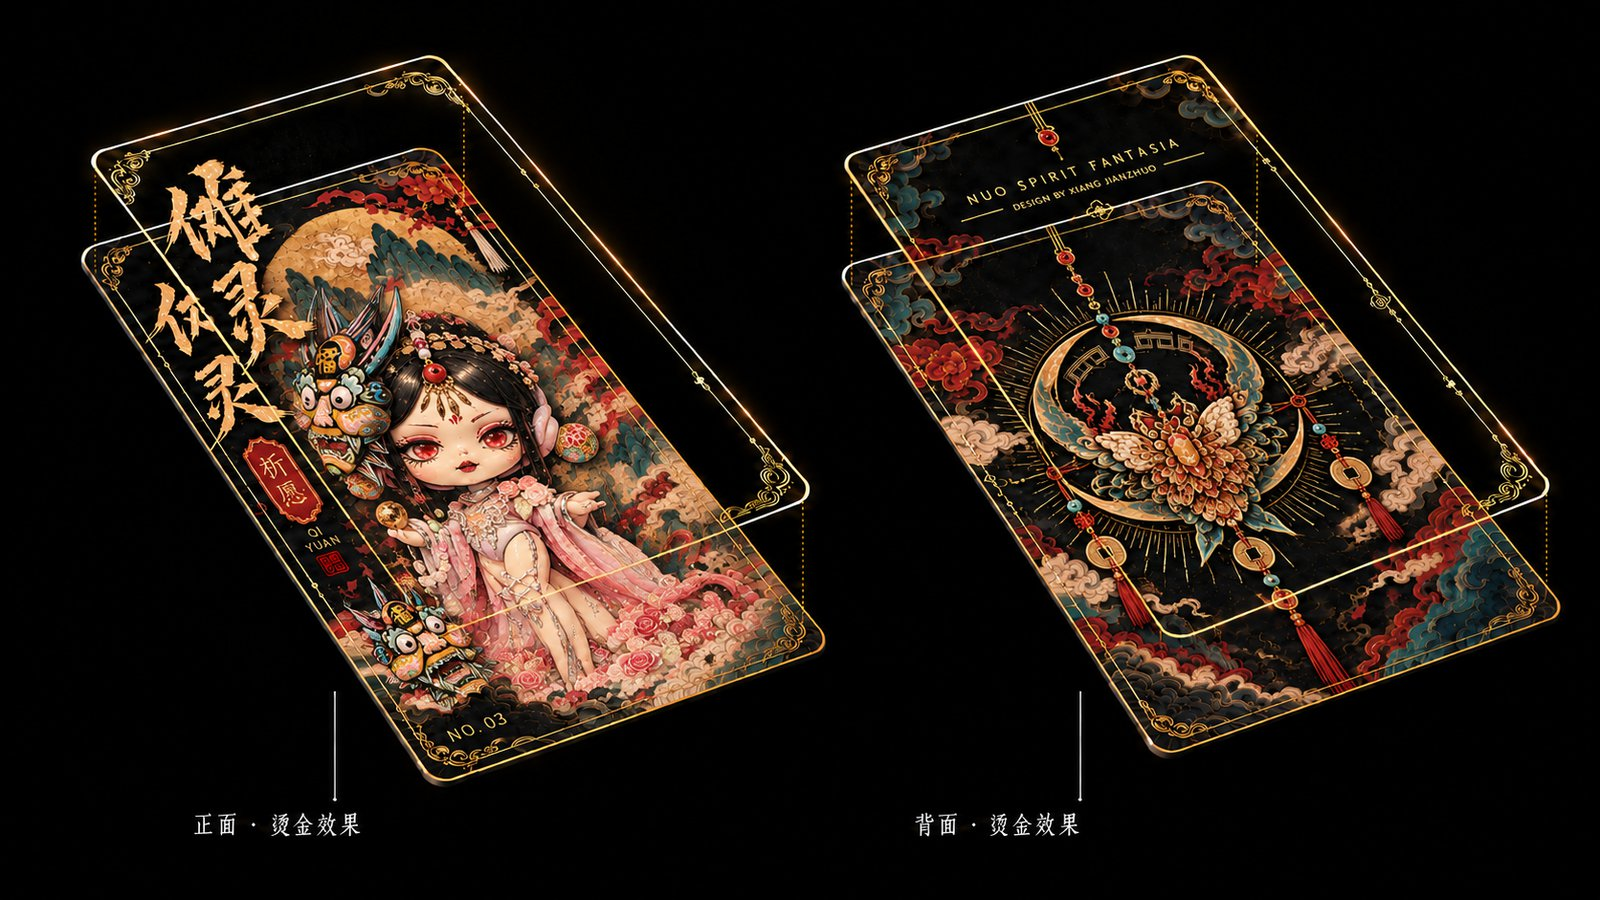
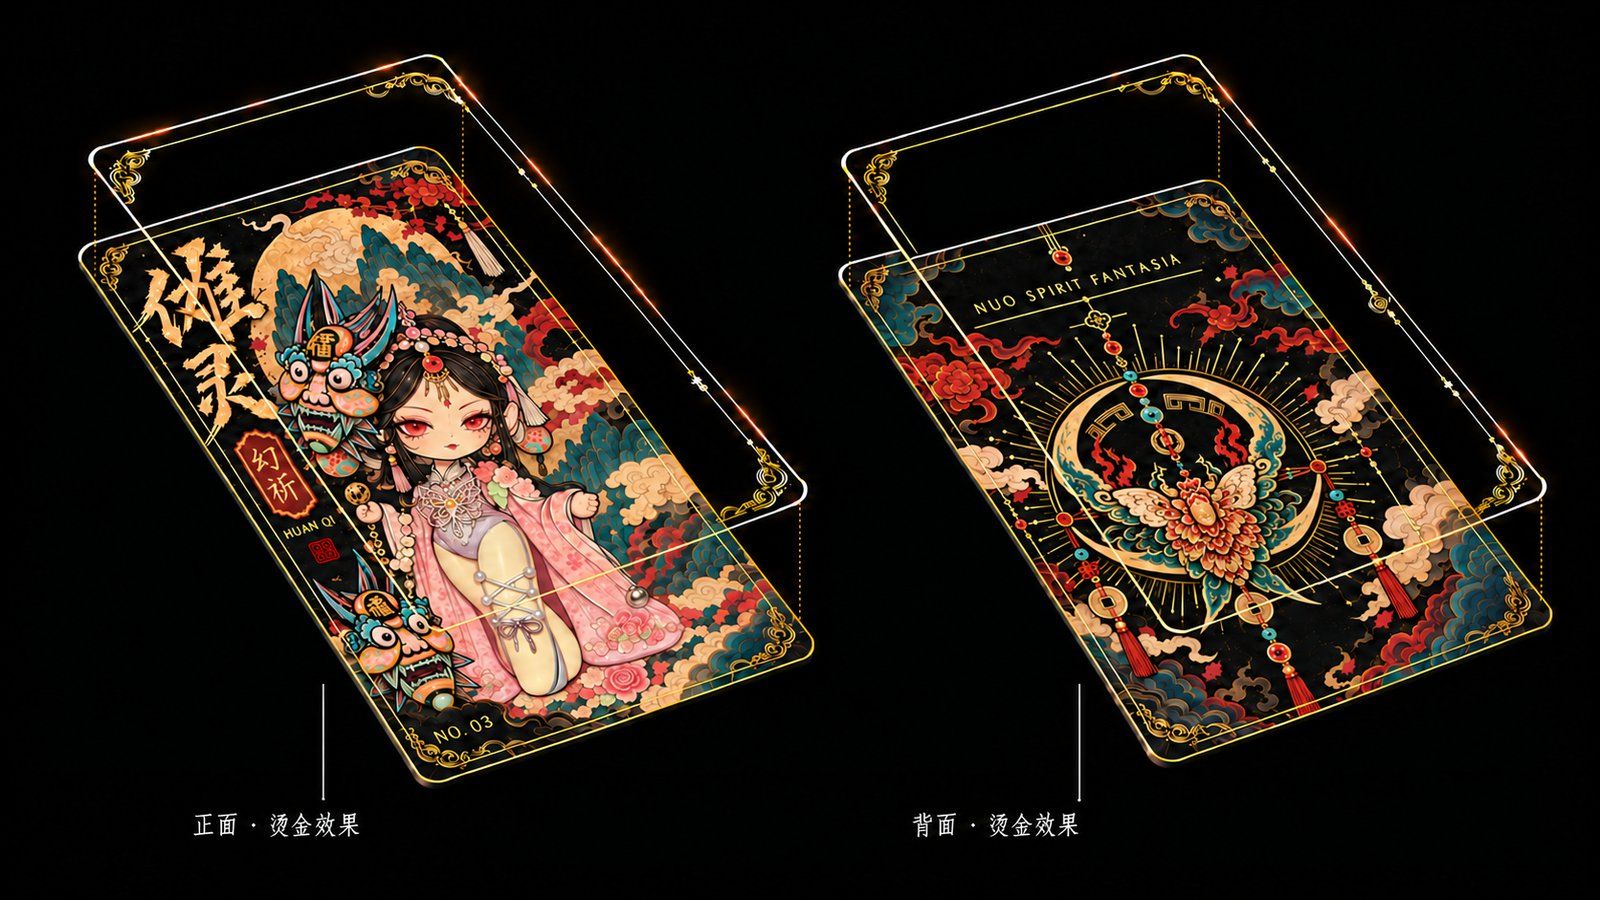
第三个手办改名「幻祈」+ 方向确认科幻金属幻想；接入造型转化图；NO.02/03 卡面换改版
- 用户在 造型转化 里明确第三方向 = 科幻金属幻想，卡面角色名由「祈愿」改为「幻祈」
  （卡面自己标着「名称待定」，若回退改名只需改 4 处文案）
- 新增 09 节首块「概念提取与转化」（整幅），三节现在都是「理念 → 草图 → 卡面」同构
- 04 节 direction-3 caption 与 02 节 NO.03 档案（角色/方向/配件）同步
- NO.02 卡面两图与 NO.03 卡面两图换改版，版本号进位 20260918d

diff --git a/nuoling.html b/nuoling.html
@@ -112,7 +112,7 @@
     </div>
     <div class="profile" data-reveal style="margin-top:56px">
       <figure>
-        <img src="assets/nuoling/nuo2-card-foil.jpg?v=20260918b" alt="传统傩面 身份卡 NO.02 烫金效果" loading="lazy">
+        <img src="assets/nuoling/nuo2-card-foil.jpg?v=20260918d" alt="传统傩面 身份卡 NO.02 烫金效果" loading="lazy">
       </figure>
       <dl>
         <div><dt>编号</dt><dd>NO.02</dd></div>
@@ -127,16 +127,16 @@
     </div>
     <div class="profile" data-reveal style="margin-top:56px">
       <figure>
-        <img src="assets/nuoling/qi3-card-foil.jpg?v=20260918" alt="祈愿 身份卡 NO.03 烫金效果" loading="lazy">
+        <img src="assets/nuoling/qi3-card-foil.jpg?v=20260918d" alt="幻祈 身份卡 NO.03 烫金效果" loading="lazy">
       </figure>
       <dl>
         <div><dt>编号</dt><dd>NO.03</dd></div>
-        <div><dt>角色</dt><dd>祈愿 · QI YUAN</dd></div>
+        <div><dt>角色</dt><dd>幻祈 · HUAN QI</dd></div>
         <div><dt>系列</dt><dd>傩灵异想 · NUO SPIRIT FANTASIA</dd></div>
-        <div><dt>设计方向</dt><dd>玫瑰 / 月牙意象（第三方向）</dd></div>
+        <div><dt>设计方向</dt><dd>科幻金属幻想（第三方向）</dd></div>
         <div><dt>材质</dt><dd class="todo">待补</dd></div>
         <div><dt>尺寸</dt><dd class="todo">待补</dd></div>
-        <div><dt>配件</dt><dd>面具可拆装 · 珠链 / 流苏 / 玫瑰底座</dd></div>
+        <div><dt>配件</dt><dd>面具可拆装 · 银色镂空胸饰 / 花卉与珠链 / 流苏</dd></div>
         <div><dt>卡面工艺</dt><dd>烫金 · 编号身份卡</dd></div>
       </dl>
     </div>
@@ -191,8 +191,8 @@
         <figcaption class="g-cap">02 传统傩面幻想 · 女性角色造型 × 传统傩面</figcaption>
       </figure>
       <figure class="g-item">
-        <img src="assets/nuoling/direction-3.jpg?v=20260918" alt="祈愿 角色设计草图 三视图" loading="lazy">
-        <figcaption class="g-cap">03 祈愿 · 玫瑰 / 月牙意象 × 傩面徽记</figcaption>
+        <img src="assets/nuoling/direction-3.jpg?v=20260918" alt="幻祈 角色设计草图 三视图" loading="lazy">
+        <figcaption class="g-cap">03 幻祈 · 科幻金属幻想 × 傩面形制转译</figcaption>
       </figure>
     </div>
     <div class="gallery gallery-wide" style="margin-top:16px" data-reveal>
@@ -327,7 +327,7 @@
     </div>
   </div>
   <div class="bleed" data-reveal style="margin-top:8vh">
-    <img src="assets/nuoling/nuo2-card.jpg?v=20260918b" alt="传统傩面 身份卡 NO.02 正面与背面" loading="lazy">
+    <img src="assets/nuoling/nuo2-card.jpg?v=20260918d" alt="传统傩面 身份卡 NO.02 正面与背面" loading="lazy">
   </div>
   <div class="bleed-cap">传统傩面 · 身份卡 NO.02 —— 正面（“傩灵”题字 / “顺遂”印）· 背面（傩面徽记 / NUO SPIRIT FANTASIA）</div>
   <div class="bleed" data-reveal style="margin-top:56px">
@@ -340,17 +340,23 @@
   <div class="bleed-cap">面具佩戴 —— 成品与包装 · 身份卡 NO.02 —— 包装盒（傩灵 / 傩面）· 涂装完成的手办 · 身份卡正反面（包装展示概念效果）</div>
 </section>
 
-<!-- ===================== 09 祈愿 · 从草图到卡面 ===================== -->
+<!-- ===================== 09 幻祈 · 从理念到卡面 ===================== -->
 <section class="dsec">
   <div class="container">
     <div class="dsec-head" data-reveal>
       <span class="k">09</span>
-      <h3>祈愿 · 从草图到卡面</h3>
-      <span class="k-en">Figure 03 · Sketch to Card</span>
+      <h3>幻祈 · 从理念到卡面</h3>
+      <span class="k-en">Figure 03 · Concept to Card</span>
     </div>
     <div class="dbody" data-reveal>
       <p><b>第三个手办</b>——延续同一套卡片形制与人物比例，换一组视觉母题：
-         玫瑰与月牙，配傩面徽记。</p>
+         傩文化 × 科幻金属幻想，以粉彩与冷色边缘重织傩面的视觉层次。</p>
+    </div>
+    <div class="gallery gallery-wide" data-reveal style="margin-top:6vh">
+      <figure class="g-item">
+        <img src="assets/nuoling/qi3-concept.jpg?v=20260918" alt="幻祈 概念提取与转化" loading="lazy">
+        <figcaption class="g-cap">概念提取与转化 —— 傩面造型转化（圆眼 / 长鼻 / 张口露齿 / 上扬轮廓）· 图形与装饰延伸 · 色彩与材质意向</figcaption>
+      </figure>
     </div>
     <div class="duo" data-reveal style="margin-top:6vh">
       <div class="duo-txt">
@@ -365,15 +371,15 @@
         <p class="note">本页为概念草图稿，与身份卡同为第三方向的推进成果。</p>
       </div>
       <figure>
-        <img src="assets/nuoling/qi3-sketch.jpg?v=20260918" alt="祈愿 角色草图设计 三视图">
+        <img src="assets/nuoling/qi3-sketch.jpg?v=20260918" alt="幻祈 角色草图设计 三视图">
         <figcaption>角色草图设计 —— 正 / 侧 / 背三视图 · 面具与配饰分解 · 玫瑰花底座</figcaption>
       </figure>
     </div>
   </div>
   <div class="bleed" data-reveal style="margin-top:8vh">
-    <img src="assets/nuoling/qi3-card.jpg?v=20260918" alt="祈愿 身份卡 NO.03 正面与背面" loading="lazy">
+    <img src="assets/nuoling/qi3-card.jpg?v=20260918d" alt="幻祈 身份卡 NO.03 正面与背面" loading="lazy">
   </div>
-  <div class="bleed-cap">祈愿 · 身份卡 NO.03 —— 正面（“傩灵”题字 / “祈愿”印）· 背面（月牙花蝶徽记 / NUO SPIRIT FANTASIA）</div>
+  <div class="bleed-cap">幻祈 · 身份卡 NO.03 —— 正面（“傩灵”题字 / “幻祈”印）· 背面（月牙花蝶徽记 / NUO SPIRIT FANTASIA）</div>
 </section>
 
 <!-- ===================== 10 系列进展 ===================== -->
@@ -387,7 +393,7 @@
         第二个手办<b>传统傩面幻想</b>（身份卡 NO.02）沿用同一套「符号提取 → 形式转译 → 角色化」的方法推进：
         已完成理念转化、设定草图、建模与部件梳理、磁吸结构方案，并产出成品与包装的概念效果；
         面具磁吸结构尚处实物验证前的方案阶段。
-        第三个手办<b>祈愿</b>（身份卡 NO.03）以<b>玫瑰 / 月牙</b>为母题，已产出角色草图与编号身份卡，继续推进中。
+        第三个手办<b>幻祈</b>（身份卡 NO.03）以<b>科幻金属幻想</b>为方向，已产出概念转化、角色草图与编号身份卡，继续推进中。
       </p>
     </div>
   </div>
